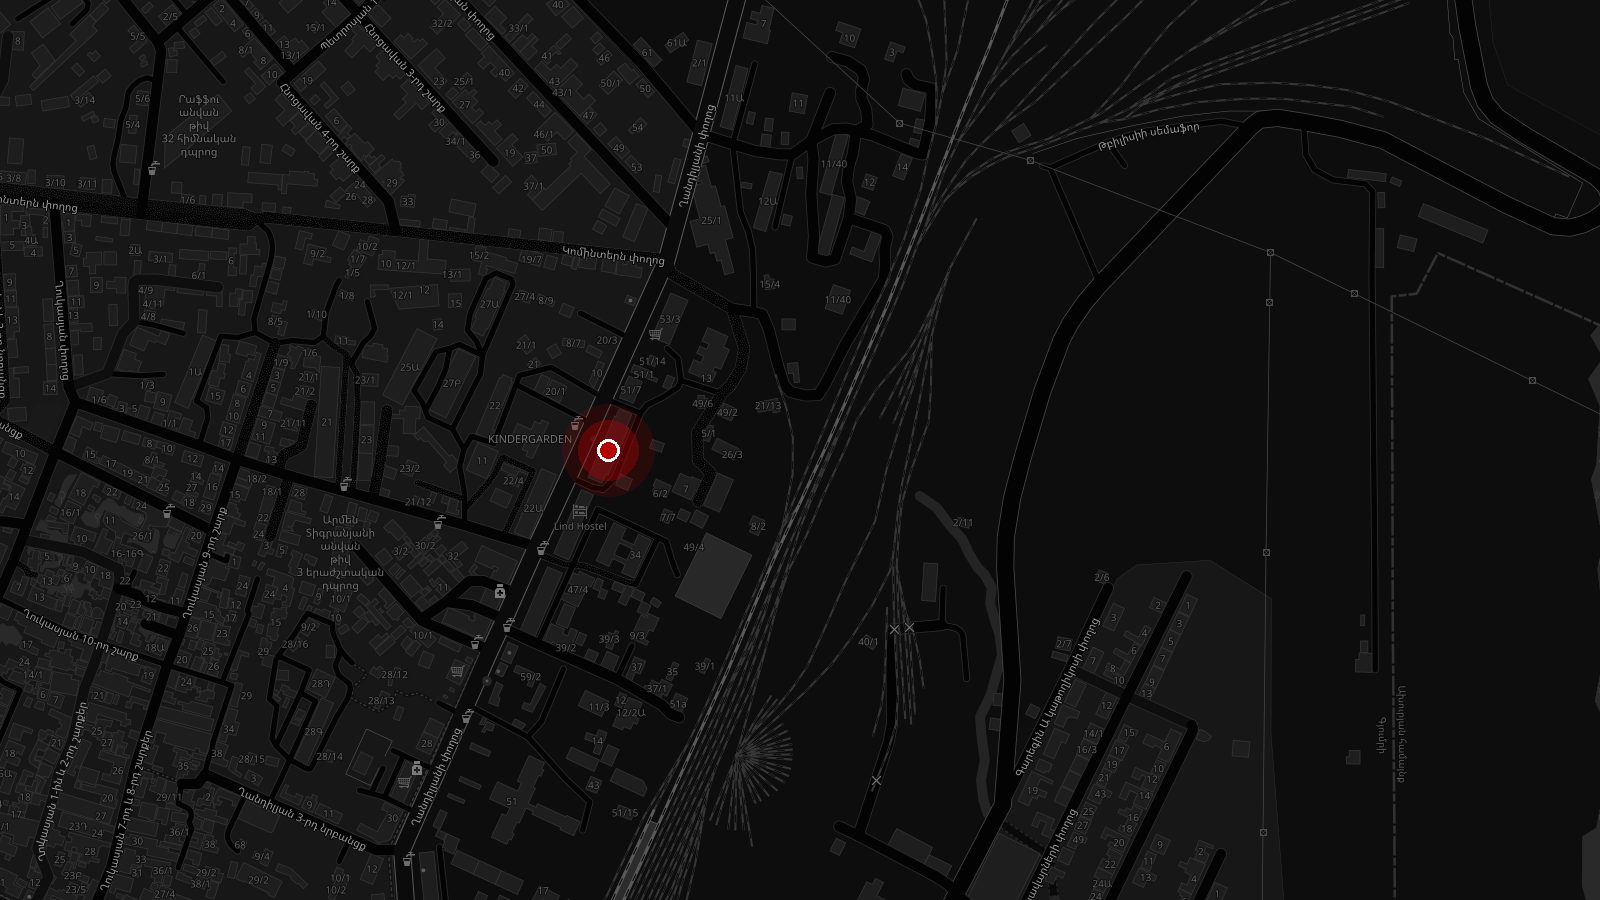
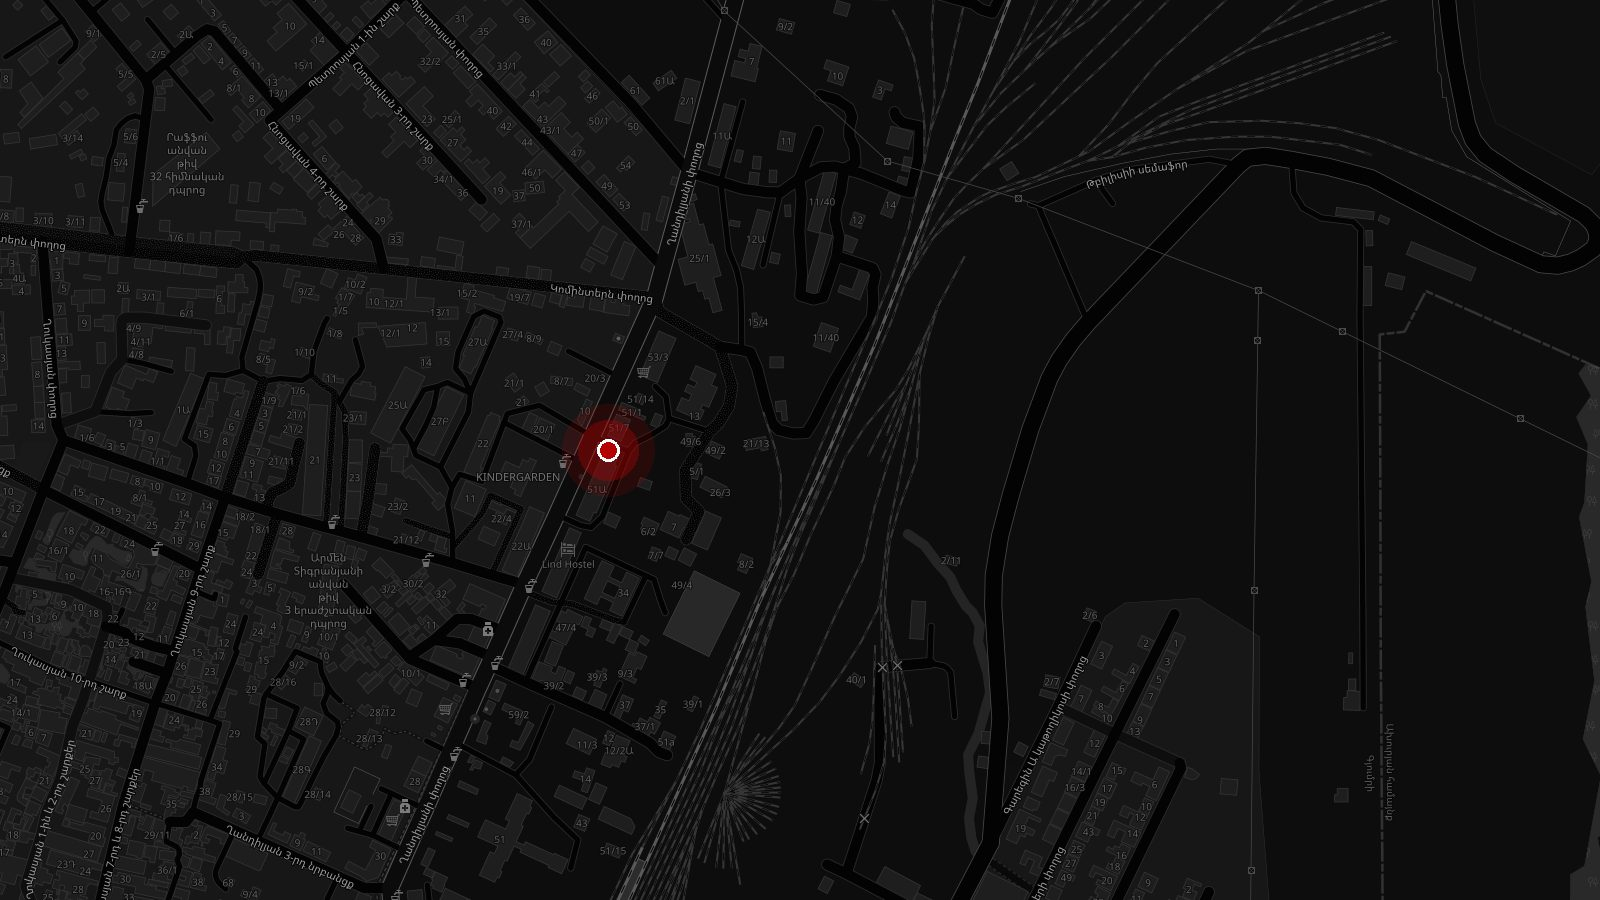
Метка: северный угол здания 51Ա/37

diff --git a/index.html b/index.html
@@ -262,7 +262,7 @@
                     <a href="tel:+37433548810">033 54-88-10</a>
                   </div>
                   <ul class="modal--options">
-                    <li><a href="https://www.google.com/maps/search/?api=1&amp;query=40.79319%2C43.86138" target="_blank" rel="noopener">Ճանապարհ</a></li>
+                    <li><a href="https://www.google.com/maps/search/?api=1&amp;query=40.7935%2C43.8615" target="_blank" rel="noopener">Ճանապարհ</a></li>
                     <li><a href="tel:+37477548810">Զանգել</a></li>
                     <li><a href="mailto:info@securitysector.am">Գրել</a></li>
                   </ul>
